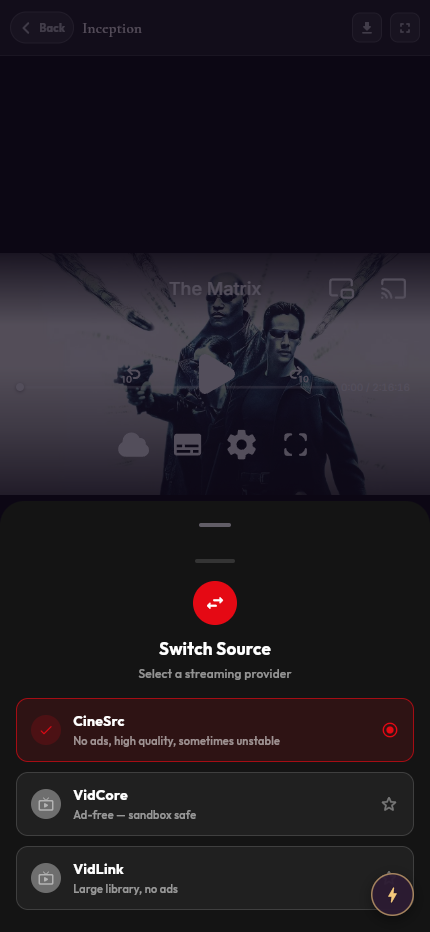
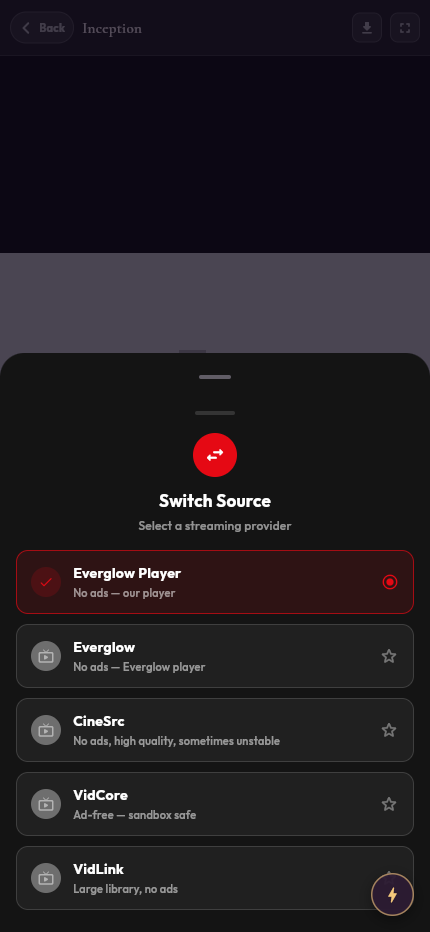
docs(pr-proof): capture Everglow Player picker and shell shots

diff --git a/docs/pr-proof/pr-601/README.md b/docs/pr-proof/pr-601/README.md
@@ -1,30 +1,37 @@
-# Cinema source picker after retiring the dead Everglow HLS row
+# Everglow is back in the cinema picker
 
-Proof for the change that stops offering the Everglow HLS row in cinema.
+Proof for the change that brings the Everglow HLS row back and adds a working
+Everglow player shell.
 
-## Where the shots came from
+## What the shots show
 
-A local release build of this branch (`dart tool/build_web.dart --
---release --no-source-maps`), served over loopback and opened in headless
-Chrome with `--mute-audio` at 430px phone width. The URL was
-`/cinema/video/603?type=movie&title=Inception&agent=1`. Agent Mode uses fake
-in-memory demo data; no couple data is in these shots.
+- `shot-picker.png`: the Switch Source sheet at 430px phone width. It lists
+  `Everglow Player` (selected), `Everglow` (the HLS row, back), `CineSrc`,
+  `VidCore` and `VidLink`.
+- `shot-wrapper.png`: our own `web/embed.html` shell opened top level at the
+  same width, loading the CineSrc upstream ("Fetching Media"). This is the
+  player the `Everglow Player` row opens.
 
-- `shot-server.png` — the player page. The server row reads `Server: CineSrc`.
-- `shot-picker.png` — the Switch Source sheet open. It lists CineSrc
-  (selected), VidCore and VidLink. There is no Everglow row.
+Both shots come from a local release build of this branch
+(`dart tool/build_web.dart -- --release --no-source-maps`), served over
+loopback and opened in headless Chrome with `--mute-audio`. The picker shot
+used `/cinema/video/603?type=movie&title=Inception&agent=1`. Agent Mode uses
+fake in-memory demo data; no couple data is in these shots.
 
-## Before the change
+## Why the shell is a separate shot
 
-The live Worker answers for every cinema smoke title:
+`everglow-1c6db.web.app/embed.html` answers
+`X-Frame-Options: SAMEORIGIN`. The real app is served from that same origin,
+so the iframe works there. A local build runs on `127.0.0.1`, which is a
+different origin, so Chrome refuses to frame the live wrapper and the local
+player area shows a broken poster. Opening the copy in `build/web` top level
+shows the shell itself loading the upstream. Playback on the live site is not
+proven by these shots.
 
-```text
-movie 603        FAIL (resolve 502)  rows=0
-movie 155        FAIL (resolve 502)  rows=0
-tv 1399 s1e1     FAIL (resolve 502)  rows=0
-```
+## What the HLS row does today
 
-fmov.my times out and vidbolt.xyz refuses the Cloudflare edge, so the
-Everglow HLS player had no stream to resolve. The app fell back to CineSrc
-after showing a failure card. The anime cases in the same smoke still play,
-so this is a cinema upstream outage, not a Worker failure.
+The live Worker still answers `resolve 502, rows=0` for all three cinema smoke
+titles. fmov.my times out and vidbolt.xyz blocks Cloudflare's edge. Tapping the
+`Everglow` row therefore fails and the app falls through to `Everglow Player`.
+The HLS row starts working on its own when a cinema upstream answers from the
+edge again; no app change is needed.
